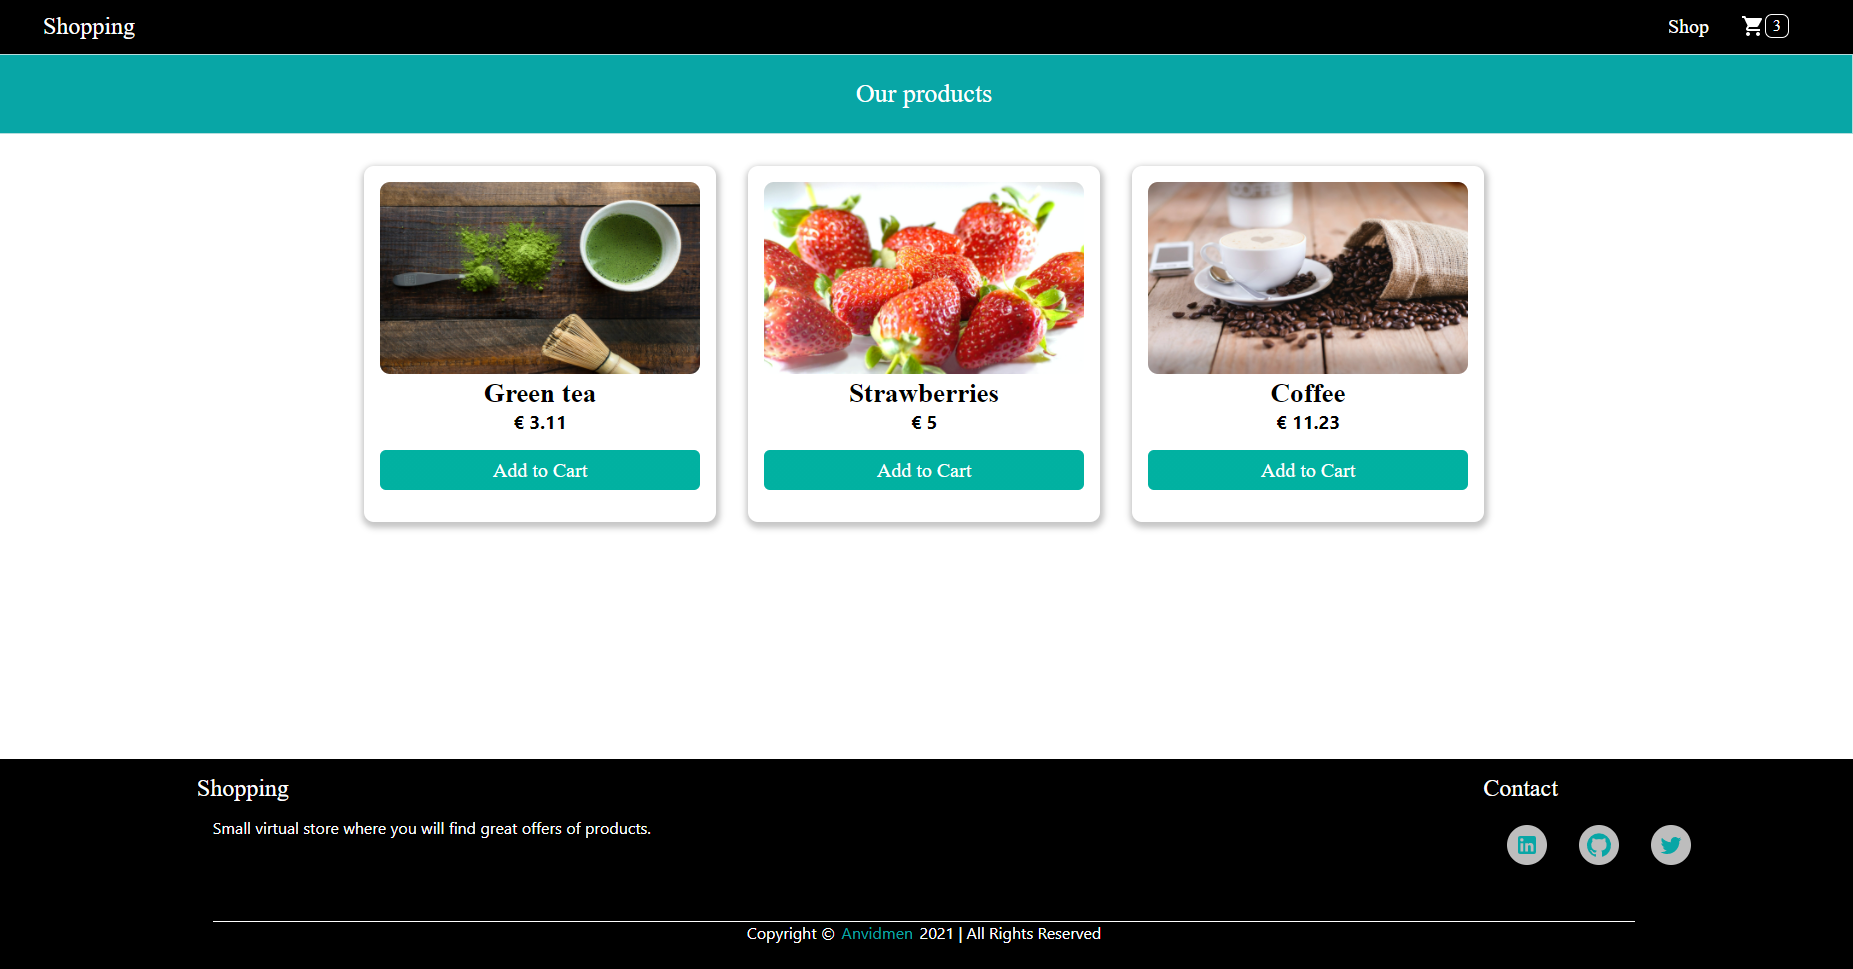
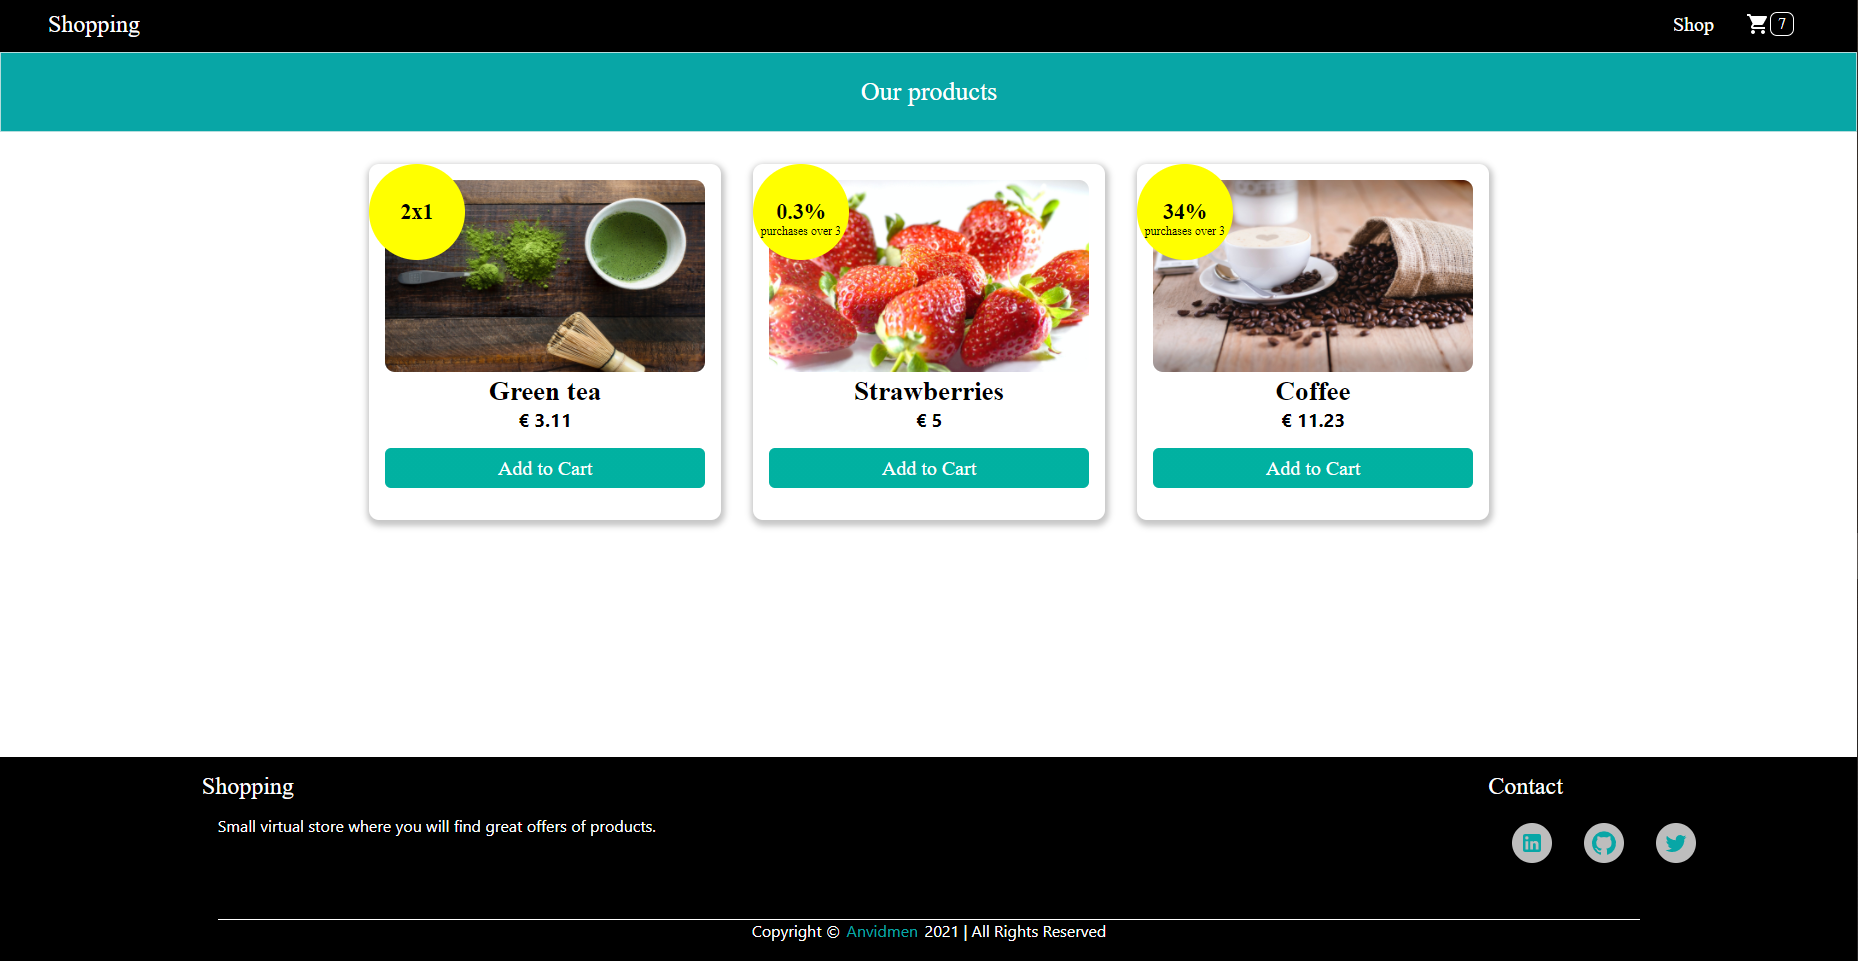
fix

diff --git a/src/screens/UserFlow/Card/styles.js b/src/screens/UserFlow/Card/styles.js
@@ -22,12 +22,24 @@ export const StyleCard = styled.div`
         position: absolute;
         top: 0;
         left: 0;
-        width: 4rem;
-        height: 4rem;
+        width: 6rem;
+        height: 6rem;
         border-radius: 50%;
         background-color: yellow;
         font: normal bold normal 22px Helvetica Neue;
-    },
+        
+        & > label {
+            display: flex;
+            justify-content: center;
+            align-items: center;
+            position: absolute;
+            top: 62%;
+            left: 3px;
+            width: 5.6rem;
+            font: normal normal normal 12px Helvetica Neue;
+        }
+    };
+    
     
     @media only screen and (max-width: 667px) {
         max-width: 20rem;

diff --git a/src/assets/data/data.js b/src/assets/data/data.js
@@ -3,8 +3,8 @@ import { Coffee, GreenTea, Strawberries } from 'assets/images'
 const data = {
   products: [
     { id: 'GR1', name: 'Green tea', price: 3.11, img: GreenTea, offer: '2x1' },
-    { id: 'SR1', name: 'Strawberries', price: 5.00, img: Strawberries, offer: '0.3%' },
-    { id: 'CF1', name: 'Coffee', price: 11.23, img: Coffee, offer: '34%' }
+    { id: 'SR1', name: 'Strawberries', price: 5.00, img: Strawberries, offer: '0.3%', description: 'purchases over 3' },
+    { id: 'CF1', name: 'Coffee', price: 11.23, img: Coffee, offer: '34%', description: 'purchases over 3' }
   ]
 }
 

diff --git a/src/screens/UserFlow/Card/Card.js b/src/screens/UserFlow/Card/Card.js
@@ -2,10 +2,12 @@ import React from 'react'
 import { CardContent, Image, StyleCard, StyledButton } from './styles'
 
 const Card = ({ product, addToCart }) => {
-  const { name, price, img, offer } = product
+  const { name, price, img, offer, description } = product
   return (
     <StyleCard>
-      <span>{offer}</span>
+      <span>{offer}
+        <label for='description'>{description}</label>
+      </span>
       <div className='card-image'>
         <Image src={img} alt={name} />
       </div>

diff --git a/README.md b/README.md
@@ -1,10 +1,14 @@
 # Shop Online
 
-It is a small virtual store where good discounts are offered on different products.
+It is a simulation of a simple web store developed in React, it is retrieving the data from file storage instead of database.
 
 ![activities](./src/assets/images/shop-online.PNG)
 
-## Special offers:
+## Description
+
+It is a small virtual store where discounts are offered on different products.
+
+Special offers:
 
 - Buy-one-get-one-free offers and of green tea.
 - Buy strawberries to get a price discount for bulk purchases. If you buy 3 or more strawberries, you have the discount of 0.3%.
